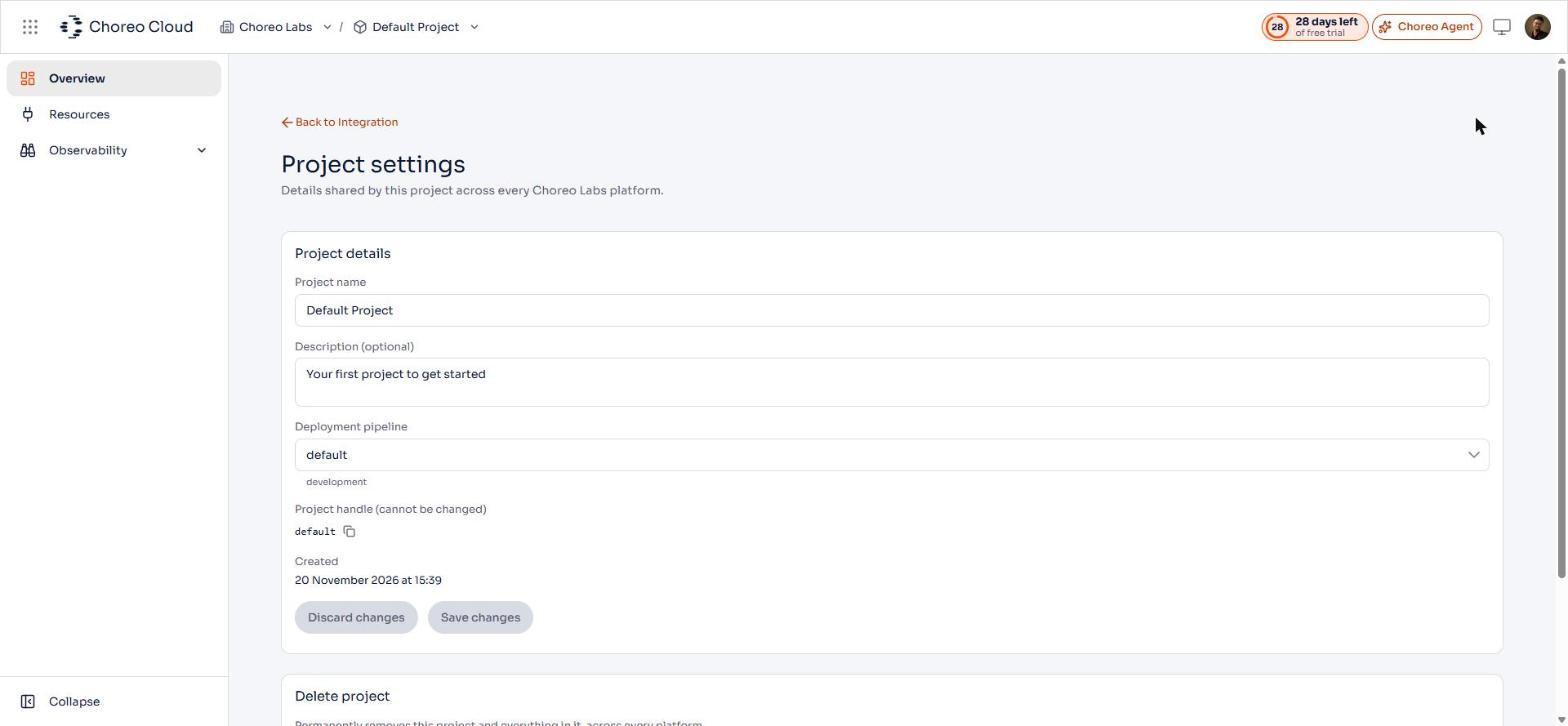
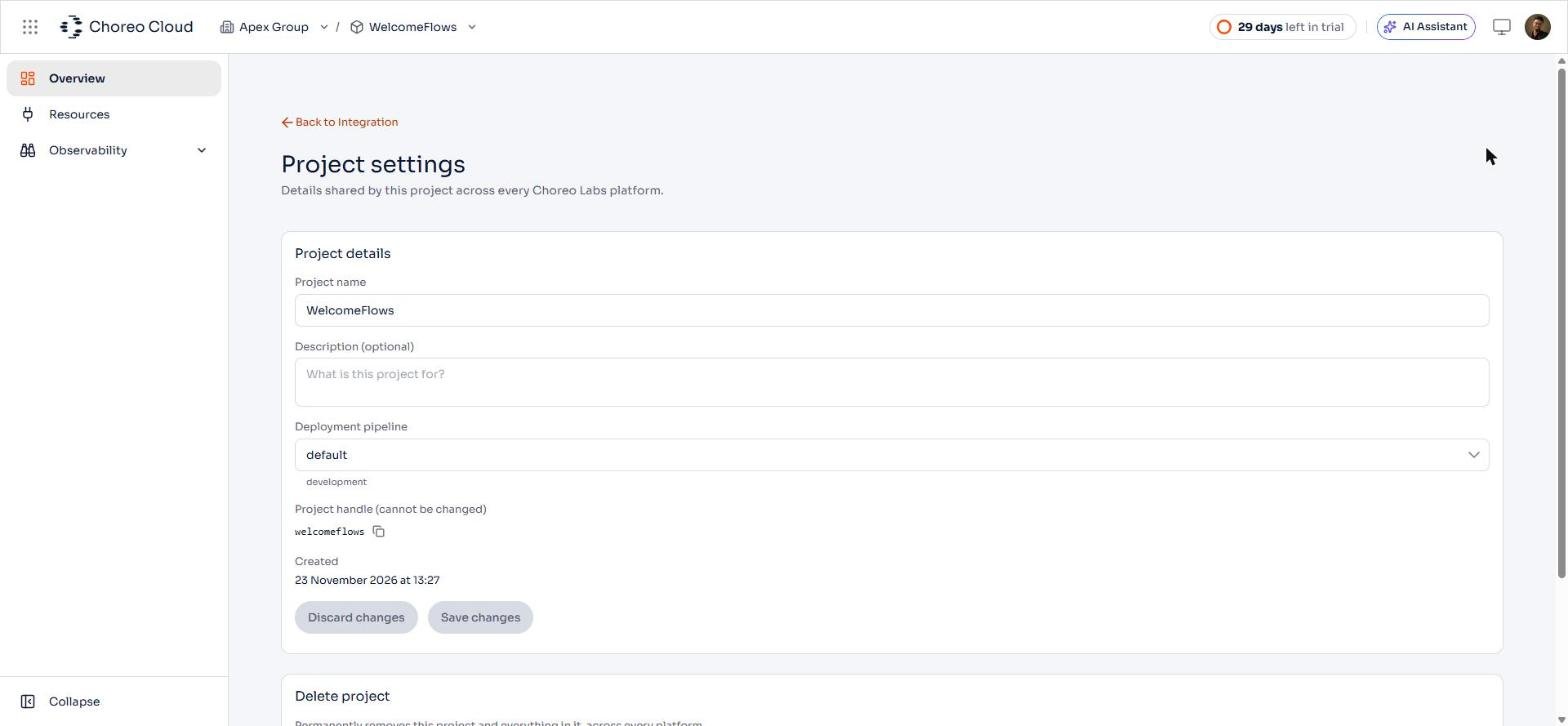
docs(v3): re-shoot manage projects from WelcomeFlows, correct the steps
Capture all three screenshots against the WelcomeFlows project on the
production console, and correct what the steps claimed.

Edit a project: the Project details card also carries Deployment
pipeline, plus a read-only Project handle and Created date, none of
which the steps mentioned. Added Discard changes.

Remove a project: clicking Delete project on a project that still holds
items opens a dialog that LISTS what remains and blocks the deletion -
there is no name-entry confirmation at that point. The warning also
undersold the rule: it blocks on any item, including APIs an
integration exposed, not just integrations.

The confirmation step for an already-empty project stays unverified and
keeps a TODO; emptying a project to reach it would destroy real
integrations.

diff --git a/en/docs/manage/projects.md b/en/docs/manage/projects.md
@@ -19,23 +19,31 @@ Click the organization name in the top navigation to open the organization overv
 
 ## Edit a project
 
-1. From the project home, click **Settings**.
-2. Update **Project name** or **Description (optional)** as needed.
+1. From the project home, click **Settings**. The **Project settings** page opens with the project's details, which are shared across every Choreo Labs platform.
+2. Update any of the editable fields:
+
+    | Field | Description |
+    |---|---|
+    | **Project name** | The display name shown in the console. |
+    | **Description (optional)** | A short summary of the project's purpose. |
+    | **Deployment pipeline** | The pipeline the project's integrations are promoted through. See [Configure promotion pipelines](./environments/configure-promotion-pipelines.md). |
+
+    The **Project handle** and the **Created** date are shown for reference and cannot be changed.
 
     <ThemedImage
-        alt="Project settings page showing the Project details card"
+        alt="Project settings page showing the Project details card with name, description, deployment pipeline, and handle"
         sources={{
             light: useBaseUrl('/img/manage/cloud/projects/manage-project.png'),
             dark: useBaseUrl('/img/manage/cloud/projects/manage-project.png'),
         }}
     />
 
-3. Click **Save changes**.
+3. Click **Save changes**. To abandon your edits, click **Discard changes**.
 
 ## Remove a project
 
 :::warning
-A project cannot be deleted without deleting all its integrations first.
+A project must be empty before it can be deleted. Remove every item it holds first, including integrations and any APIs they exposed.
 :::
 
 :::danger
@@ -46,24 +54,29 @@ Removing a project is permanent. All history within the project is deleted and c
 2. Scroll to the **Delete project** card and click **Delete project**.
 
     <ThemedImage
-        alt="Delete project card on the project settings page"
+        alt="Delete project card at the bottom of the project settings page"
         sources={{
             light: useBaseUrl('/img/manage/cloud/projects/delete-project-button.png'),
             dark: useBaseUrl('/img/manage/cloud/projects/delete-project-button.png'),
         }}
     />
 
-3. Enter the project name to confirm, then confirm the deletion.
-
-    {/* TODO(v3): confirmation dialog not re-captured - opening it risks deleting the project. Verify the button label and re-shoot. */}
+3. If the project still holds anything, Choreo Cloud lists what remains and blocks the deletion. Close the dialog, remove each item listed, and start again.
 
     <ThemedImage
-        alt="Confirmation dialog for removing a project"
+        alt="Delete project dialog listing the integrations and APIs that must be removed before the project can be deleted"
         sources={{
             light: useBaseUrl('/img/manage/cloud/projects/delete-project-confirm.png'),
             dark: useBaseUrl('/img/manage/cloud/projects/delete-project-confirm.png'),
         }}
     />
+
+    {/* TODO(v3): the confirmation step for an empty project is not captured - every
+        project in the test organization still holds items, and emptying one to reach
+        that dialog would destroy real integrations. Verify whether it asks for the
+        project name and re-shoot. */}
+
+4. Once the project is empty, confirm the deletion.
 
 The project and all its contents are permanently deleted.
 
